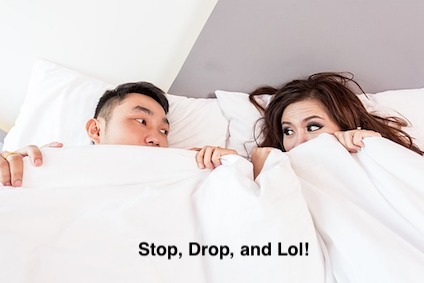
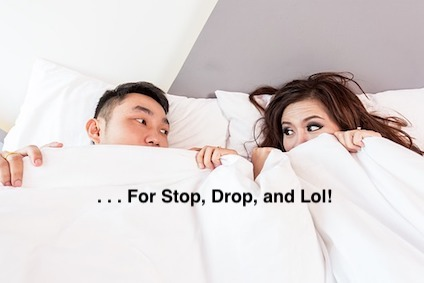
Remodeled the front page carefully, hover effect on home Jumbotron, added button actions

Changed region(s): [[0.2759, 0.6502, 0.7972, 0.735], [0.3066, 0.8481, 0.7358, 0.9329]]

diff --git a/app/assets/javascripts/application.js b/app/assets/javascripts/application.js
@@ -14,3 +14,13 @@
 //= require turbolinks
 //= require jquery3
 //= require_tree .
+
+/*
+$('#top_img').dblclick(function(){
+    $('#top_img').toggle();
+});
+
+$('#bottom_img').dblclick(function(){
+    $('#top_img').toggle();
+});
+*/

diff --git a/app/assets/stylesheets/application.css b/app/assets/stylesheets/application.css
@@ -49,6 +49,8 @@
 	margin: 18px;
 }
 
+
+
 #crossfade {
   position:relative;
   height:283px;
